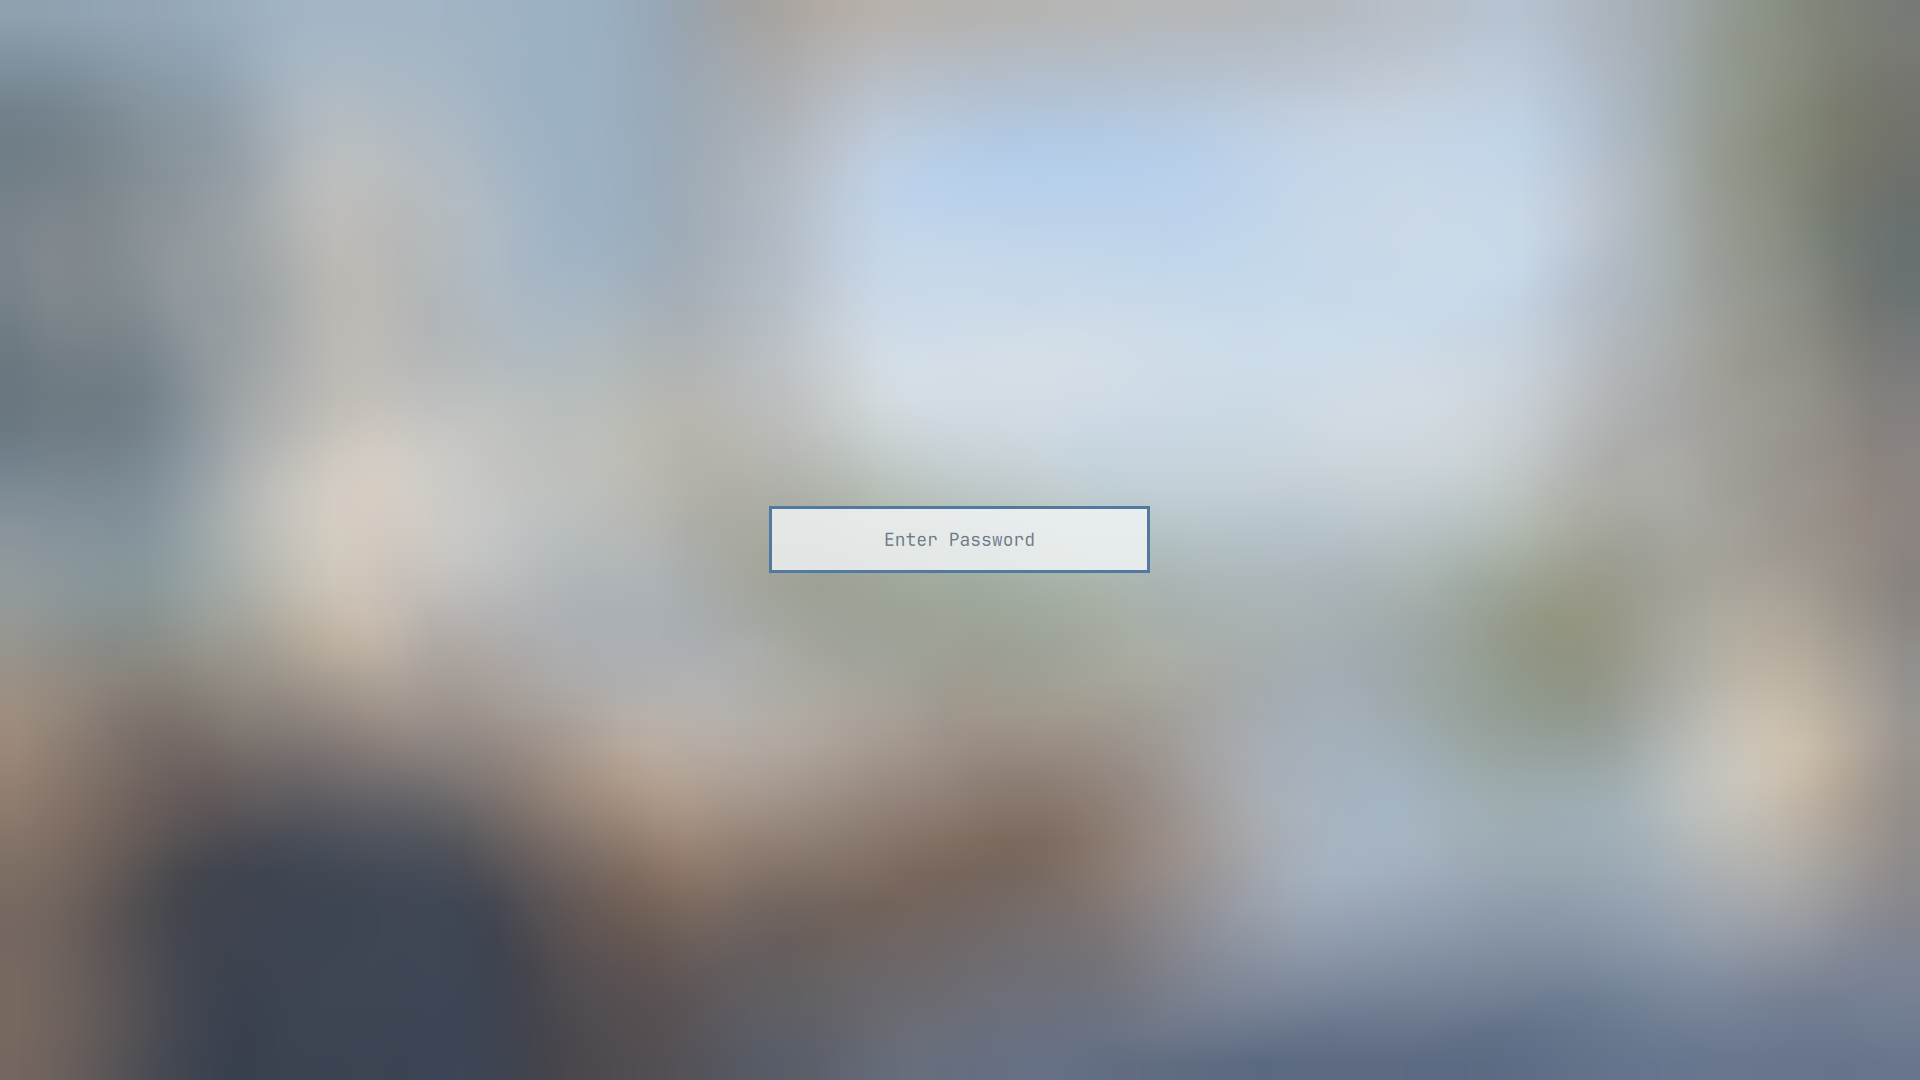
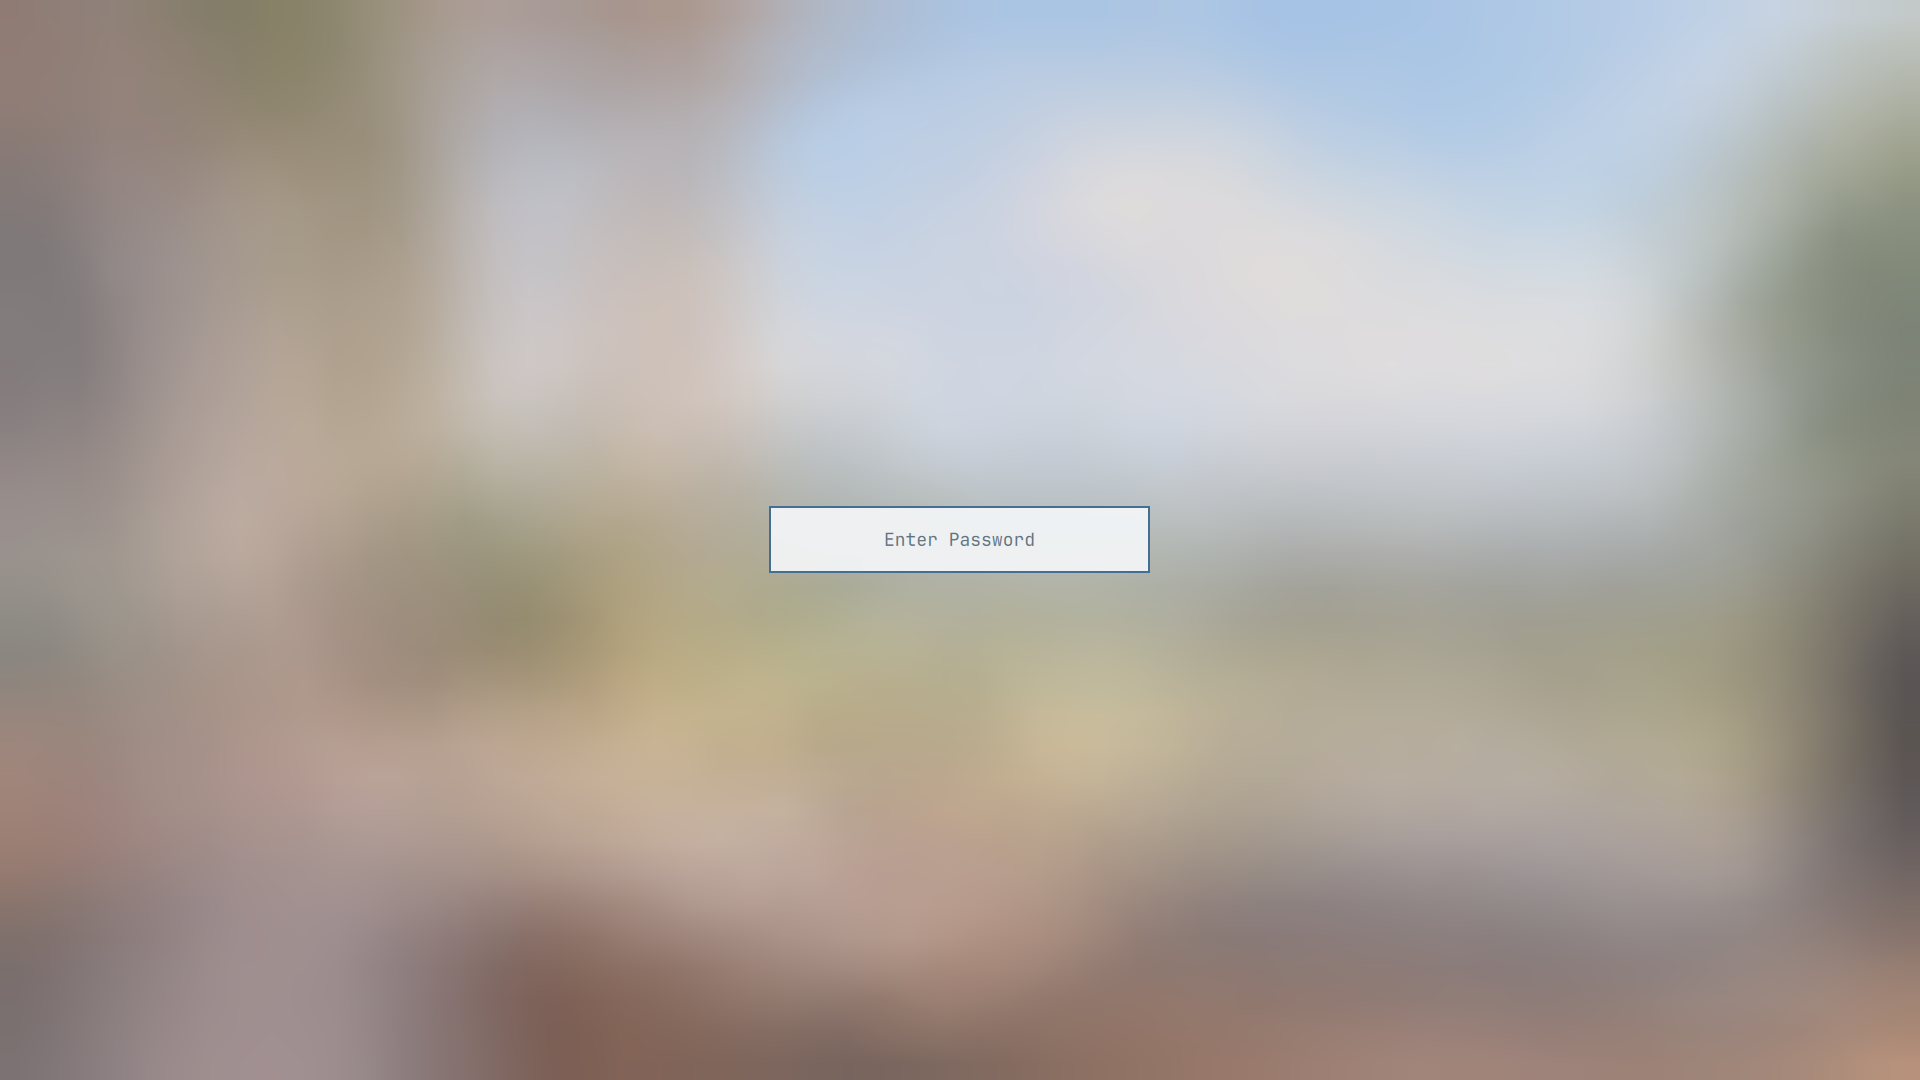
Polish project page and real previews

diff --git a/scripts/validate-theme.py b/scripts/validate-theme.py
@@ -18,7 +18,7 @@ REQUIRED_FILES = {
     "zed.json", "cava_theme", "fzf.fish", "steam.css", "vencord.theme.css",
     "bat.conf", "lazygit.yml", "fastfetch.jsonc", "yazi-theme.toml",
     "delta.gitconfig", "INTEGRATIONS.md", "CONTRIBUTING.md", "CHANGELOG.md",
-    "LICENSE", "ATTRIBUTIONS.md", "unlock.png",
+    "LICENSE", "ATTRIBUTIONS.md", "unlock.png", "README.md", "docs/DESIGN.md",
 }
 REQUIRED_SHELL_SECTIONS = {
     "bar", "controls", "spacing", "font", "popups", "tooltip",

diff --git a/README.md b/README.md
@@ -1,71 +1,110 @@
-# Omarchy Ankh
+<p align="center">
+  <img src="unlock.png" width="190" alt="Ankh emblem">
+</p>
 
-Tema claro, sóbrio e calmo para Omarchy v4. O Ankh combina off-white frio,
-azul ardósia e acentos quentes dessaturados; os três wallpapers fornecidos
-trazem estudo, natureza e referências médicas sem recorrer a imagens geradas.
+<h1 align="center">Omarchy Ankh</h1>
 
-![Desktop Ankh — captura real do Omarchy](preview.png)
+<p align="center">
+  A calm, high-contrast light theme for <strong>Omarchy v4</strong>.<br>
+  Cool paper, slate blue, and three supplied high-resolution wallpapers.
+</p>
 
-![Lockscreen Ankh — captura real do Omarchy](preview-unlock.png)
+<p align="center">
+  <a href="https://github.com/PedroAugustoOK/omarchy-ankh-theme/releases/tag/v1.0.0"><img src="https://img.shields.io/github/v/release/PedroAugustoOK/omarchy-ankh-theme?display_name=tag&style=flat-square" alt="Latest release"></a>
+  <a href="https://github.com/PedroAugustoOK/omarchy-ankh-theme/actions/workflows/validate.yml"><img src="https://github.com/PedroAugustoOK/omarchy-ankh-theme/actions/workflows/validate.yml/badge.svg" alt="Validation status"></a>
+  <a href="LICENSE"><img src="https://img.shields.io/github/license/PedroAugustoOK/omarchy-ankh-theme?style=flat-square" alt="MIT license"></a>
+</p>
 
-## Instalação
+<p align="center">
+  <a href="#install">Install</a> ·
+  <a href="#gallery">Gallery</a> ·
+  <a href="#whats-included">Included</a> ·
+  <a href="INTEGRATIONS.md">Integrations</a> ·
+  <a href="CONTRIBUTING.md">Contribute</a>
+</p>
 
-```bash
+![Omarchy Ankh desktop — real Quickshell menu capture](preview.png)
+
+## A considered light theme
+
+Ankh is for a desktop that feels focused rather than sterile: cool off-white
+surfaces, legible slate-blue focus states, and small warm accents for context.
+It is built around the supplied study wallpapers, not around generated artwork.
+
+- **Readable by default** — 7:1 minimum contrast for primary text, 4.5:1 for accent and muted text.
+- **A complete shell** — bar, launcher, menus, notifications, polkit, image picker, and lock screen share one surface language.
+- **Safe to install** — works with Omarchy's Git-installed-theme model without shipping executable configuration.
+
+## Install
+
+~~~bash
 omarchy theme install https://github.com/PedroAugustoOK/omarchy-ankh-theme
 omarchy theme set ankh
-```
+~~~
 
-Para usar este checkout durante o desenvolvimento:
+Cycle the three included wallpapers with <code>omarchy theme bg next</code>.
 
-```bash
-mkdir -p ~/.config/omarchy/themes
-ln -sfn "$PWD" ~/.config/omarchy/themes/ankh
-omarchy theme set ankh
-```
+> Want the nocturnal counterpart? See [Omarchy Ankh Dark](https://github.com/PedroAugustoOK/omarchy-ankh-dark-theme).
 
-Alterne entre os três wallpapers com `omarchy theme bg next`.
+## Gallery
 
-## O que está incluído
+<table>
+  <tr>
+    <td width="50%">
+      <img src="preview.png" alt="Ankh light desktop with the Omarchy menu">
+      <sub><strong>Desktop</strong> — real Quickshell menu capture.</sub>
+    </td>
+    <td width="50%">
+      <img src="preview-unlock.png" alt="Ankh light lock screen with visible password field">
+      <sub><strong>Lock screen</strong> — actual Omarchy lock preview.</sub>
+    </td>
+  </tr>
+</table>
 
-- Paleta `colors.toml` com contraste mínimo de 7:1 para texto principal.
-- `shell.toml` completo para barra, controles, menus, launcher, notificações,
-  polkit, lockscreen e seletor de imagens do Quickshell.
-- Ícones `Yaru-blue`, escolhidos para manter a identidade azul discreta em GTK.
-- Integrações com GTK, Walker, Waybar, Mako, SwayOSD, Superfile, Zed, btop,
-  Chromium, Cava, fzf, Steam e Vencord.
-- Complementos opcionais para bat, Lazygit, Fastfetch, Yazi e git-delta em
-  [INTEGRATIONS.md](INTEGRATIONS.md).
+All previews are real captures from this theme on Omarchy v4. They are never AI
+mockups. The desktop image shows the included Ankh workspace; the lock screen
+shows the password field in its standard position.
 
-O Omarchy gera automaticamente terminal, Neovim, Helix, VS Code e Obsidian a
-partir de `colors.toml`. Os arquivos opcionais não são copiados sobre suas
-preferências existentes.
+## What's included
+
+| Surface | Coverage |
+| --- | --- |
+| **Omarchy** | colors.toml, Quickshell shell.toml, Yaru Blue icons, three 3840×2160 wallpapers |
+| **Desktop** | GTK, Walker, Waybar, Mako, SwayOSD, Superfile, Zed, Chromium |
+| **Terminal & media** | btop, Cava, fzf, Steam, Vencord |
+| **Optional companions** | bat, Lazygit, Fastfetch, Yazi, git-delta — see [INTEGRATIONS.md](INTEGRATIONS.md) |
+
+Omarchy automatically derives terminal, Neovim, Helix, VS Code, and Obsidian
+from colors.toml. Optional companion files are documented separately so they
+never overwrite a person's existing configuration.
 
 ## Wallpapers
 
-Há exatamente três imagens PNG em 3840×2160 (16:9):
+Exactly three PNG wallpapers are included, each at **3840×2160**:
 
-- `01-ankh-study.png` — mesa junto à janela, luz quente e vegetação.
-- `02-ankh-meadow.png` — estudo aberto para campo e vila distante.
-- `03-ankh-window.png` — mesa clara, caderno e laptop junto à janela.
+| File | Scene |
+| --- | --- |
+| 01-ankh-study.png | Desk by a window, warm light, and greenery |
+| 02-ankh-meadow.png | Study opening toward a meadow and distant village |
+| 03-ankh-window.png | Bright desk, notebook, and laptop by the window |
 
-## Desenvolvimento
+Their origin and processing notes live in [ATTRIBUTIONS.md](ATTRIBUTIONS.md).
 
-Valide localmente com:
+## Project quality
 
-```bash
+~~~bash
 python3 scripts/validate-theme.py
-```
+~~~
 
-O teste verifica paleta, contraste, formatos TOML/JSON, referências de cores,
-assets obrigatórios, previews reais e as três imagens em alta resolução.
-Leia [CONTRIBUTING.md](CONTRIBUTING.md) antes de alterar assets e consulte
-[CHANGELOG.md](CHANGELOG.md) para as versões.
+The same validation runs in GitHub Actions. It checks palette semantics,
+contrast, TOML/JSON parsing, color references, required assets, real preview
+dimensions, and the three exact wallpaper dimensions.
 
-Notas de origem dos assets: [ATTRIBUTIONS.md](ATTRIBUTIONS.md).
+- [Design principles](docs/DESIGN.md)
+- [Integration guide](INTEGRATIONS.md)
+- [Contribution guide](CONTRIBUTING.md)
+- [Changelog](CHANGELOG.md)
 
-Para a variante noturna, veja
-[Omarchy Ankh Dark](https://github.com/PedroAugustoOK/omarchy-ankh-dark-theme).
-
-## Licença
+## License
 
 [MIT](LICENSE).

diff --git a/docs/DESIGN.md b/docs/DESIGN.md
@@ -1,0 +1,35 @@
+# Ankh design principles
+
+## Intent
+
+Ankh light is a focused reading and study environment. It uses a cool paper
+background rather than pure white, slate-blue interaction states, and muted
+warm colors only where information needs hierarchy.
+
+## Surface hierarchy
+
+| Layer | Role |
+| --- | --- |
+| Background | Quiet off-white canvas that lets wallpaper photography breathe |
+| Surface | Blue-grey panels for menus, tooltips, and application chrome |
+| Focus | Slate-blue borders and selected states, never bright neon |
+| Text | Deep blue-black for comfortable long reading |
+| Signals | Restrained sage, rose, ochre, cyan, and violet semantic colors |
+
+## Light and dark are companions
+
+Ankh and Ankh Dark use the same geometry, icons, semantic color roles, and
+lockscreen treatment. Light is open and editorial; Dark is nocturnal and
+contained. They should feel like the same system at different hours.
+
+## Real imagery only
+
+The theme has exactly three supplied wallpapers. Previews must be captured from
+a running Omarchy session and must show actual UI states. Do not replace them
+with generated scenes or UI mockups.
+
+## Accessibility contract
+
+Primary text must retain at least 7:1 contrast against its background. Accent
+and muted text must retain at least 4.5:1. This is enforced by the validation
+script before publication.

diff --git a/CHANGELOG.md b/CHANGELOG.md
@@ -1,5 +1,13 @@
 # Changelog
 
+## 1.0.1 — 2026-09-17
+
+- Reorganiza a página do projeto com hero, instalação rápida, galeria, mapa de
+  integrações e links de manutenção.
+- Substitui as prévias por capturas reais e demonstrativas do menu Quickshell e
+  da tela de bloqueio do Omarchy v4.
+- Adiciona princípios de design e modelos para bugs, ideias e pull requests.
+
 ## 1.0.0 — 2026-09-17
 
 - Consolida a identidade Ankh clara: azul ardósia, neutros frios e três

diff --git a/.github/PULL_REQUEST_TEMPLATE.md b/.github/PULL_REQUEST_TEMPLATE.md
@@ -1,0 +1,11 @@
+## Summary
+
+Describe the visual or integration change in one or two sentences.
+
+## Checklist
+
+- [ ] I ran <code>python3 scripts/validate-theme.py</code>.
+- [ ] I preserved exactly three 3840×2160 wallpapers.
+- [ ] New previews are real Omarchy captures, not generated mockups.
+- [ ] I checked contrast when changing palette or shell colors.
+- [ ] I updated both Ankh variants when the change has a visual equivalent.
